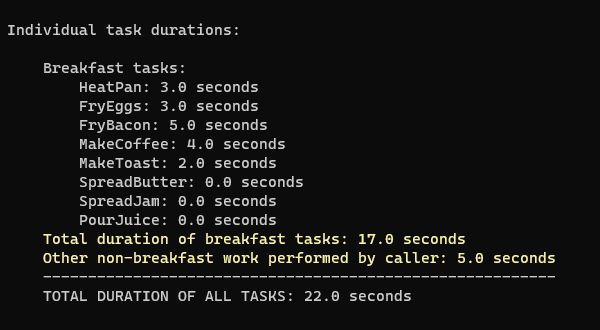
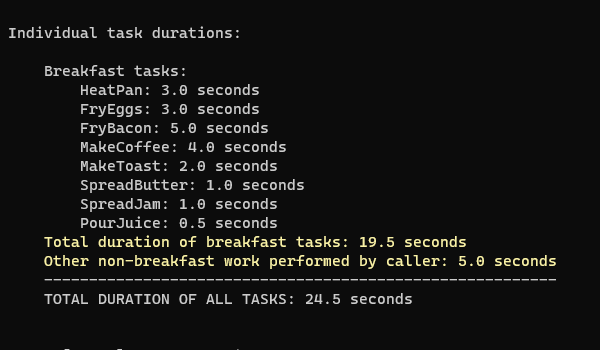
Give short-running tasks set durations

Changed region(s): [[0.06, 0.1818, 0.93, 0.9091], [0.0, 0.0606, 0.39, 0.1212]]

diff --git a/AsyncDEMO_Net8/2_AsyncVersions/AsyncBreakfastMakerBase.cs b/AsyncDEMO_Net8/2_AsyncVersions/AsyncBreakfastMakerBase.cs
@@ -100,6 +100,8 @@ namespace AsyncDEMO_Net8._2_AsyncVersions
 
             taskInfo.WriteInTaskColor($"Spreading butter on {toastSlices.Count} slices of toast...");
 
+            Task.Delay(taskInfo.Duration).Wait();
+
             taskInfo.WriteWithElapsedTime("Butter has been spread", startTime);
         }
 
@@ -109,6 +111,8 @@ namespace AsyncDEMO_Net8._2_AsyncVersions
 
             taskInfo.WriteInTaskColor($"Spreading jam on {toastSlices.Count} slices of toast...");
 
+            Task.Delay(taskInfo.Duration).Wait();
+
             taskInfo.WriteWithElapsedTime("Jam has been spread", startTime);
         }
 
@@ -117,6 +121,8 @@ namespace AsyncDEMO_Net8._2_AsyncVersions
             var taskInfo = TaskInfo.GetTask(TaskId.PourJuice);
 
             taskInfo.WriteInTaskColor("Pouring orange juice...");
+
+            Task.Delay(taskInfo.Duration).Wait();
 
             taskInfo.WriteWithElapsedTime("Juice is ready", startTime);
 

diff --git a/AsyncDEMO_Net8/1_SyncVersion/SyncBreakfastMaker.cs b/AsyncDEMO_Net8/1_SyncVersion/SyncBreakfastMaker.cs
@@ -126,6 +126,8 @@ namespace AsyncDEMO_Net8._1_SyncVersion
 
             taskInfo.WriteInTaskColor($"Spreading butter on {toastSlices.Count} slices of toast...");
 
+            Task.Delay(taskInfo.Duration).Wait();
+
             taskInfo.WriteWithElapsedTime("Butter has been spread", startTime);
         }
 
@@ -135,6 +137,8 @@ namespace AsyncDEMO_Net8._1_SyncVersion
 
             taskInfo.WriteInTaskColor($"Spreading jam on {toastSlices.Count} slices of toast...");
 
+            Task.Delay(taskInfo.Duration).Wait();
+
             taskInfo.WriteWithElapsedTime("Jam has been spread", startTime);
         }
 
@@ -143,6 +147,8 @@ namespace AsyncDEMO_Net8._1_SyncVersion
             var taskInfo = TaskInfo.GetTask(TaskId.PourJuice);
 
             taskInfo.WriteInTaskColor("Pouring orange juice...");
+
+            Task.Delay(taskInfo.Duration).Wait();
 
             taskInfo.WriteWithElapsedTime("Juice is ready", startTime);
 

diff --git a/AsyncDEMO_Net8/TaskInfo.cs b/AsyncDEMO_Net8/TaskInfo.cs
@@ -93,9 +93,9 @@ namespace AsyncDEMO_Net8
             tasks.Add(new TaskInfo(TaskId.FryBacon, ConsoleColor.Red, 5000));
             tasks.Add(new TaskInfo(TaskId.MakeCoffee, ConsoleColor.DarkYellow, 4000));
             tasks.Add(new TaskInfo(TaskId.MakeToast, ConsoleColor.Yellow, 2000));
-            tasks.Add(new TaskInfo(TaskId.SpreadButter, ConsoleColor.Cyan, 0));
-            tasks.Add(new TaskInfo(TaskId.SpreadJam, ConsoleColor.DarkCyan, 0));
-            tasks.Add(new TaskInfo(TaskId.PourJuice, ConsoleColor.Blue, 0));
+            tasks.Add(new TaskInfo(TaskId.SpreadButter, ConsoleColor.Cyan, 1000));
+            tasks.Add(new TaskInfo(TaskId.SpreadJam, ConsoleColor.DarkCyan, 1000));
+            tasks.Add(new TaskInfo(TaskId.PourJuice, ConsoleColor.Blue, 500));
             tasks.Add(new TaskInfo(TaskId.OtherWork, ConsoleColor.DarkGreen, 5000));
 
             return tasks;

diff --git a/AsyncDEMO_Net8/ConsoleHelper.cs b/AsyncDEMO_Net8/ConsoleHelper.cs
@@ -57,6 +57,7 @@ namespace AsyncDEMO_Net8
 
         public static void WriteTotalTimeTaken(DateTime startTime)
         {
+            Console.ForegroundColor = ConsoleColor.Gray;
             WriteTimeTaken("TOTAL TIME TAKEN", startTime);
         }
     }

diff --git a/AsyncDEMO_Net8/Program.cs b/AsyncDEMO_Net8/Program.cs
@@ -1,4 +1,5 @@
 // See https://aka.ms/new-console-template for more information
 using Gold.ConsoleMenu;
 
+Console.ForegroundColor = ConsoleColor.Gray;
 MenuGenerator.Run();

diff --git a/README.md b/README.md
@@ -45,21 +45,21 @@ The first asynchronous version of the code calls each breakfast task with an imm
 ![A screenshot from the demo application, showing the tasks executed by the asynchronous version of the code with immediate awaits](Images/Results_AsyncWithImmediateAwait.png "Results of asynchronous version with immediate awaits")
 
 ### Asynchronous Version with Deferred awaits
-The second asynchronous version of the code defers the `await`s for each asynchronous breakfast task.  As a result the asynchronous tasks execute consecutively, not sequentially, so this version is very fast.  However, it has two problems:
+The second asynchronous version of the code defers the `await`s for each asynchronous breakfast task.  As a result the asynchronous tasks execute concurrently, not sequentially, so this version is very fast.  However, it has two problems:
 
-1. The various tasks relating to frying execute consecutively.  So it attempts to fry the eggs before the pan has finished heating, and fry the bacon before the eggs have finished.
+1. The various tasks relating to frying execute in parallel.  So it attempts to fry the eggs before the pan has finished heating, and fry the bacon before the eggs have finished.
 
 1. The tasks for spreading the butter and jam on the toast have to wait for the bacon to finish frying, the coffee to finish brewing, and the toast to finish.  This may result in an unnecessary delay, as spreading the butter and jam should only depend on the toast being ready; it's okay for those tasks to execute while the bacon is still frying and the coffee is still brewing.
 
 ![A screenshot from the demo application, showing the tasks executed by the asynchronous version of the code with deferred awaits](Images/Results_AsyncWithDeferredAwait.png "Results of asynchronous version with deferred awaits")
 
 ### Asynchronous Version with Deferred awaits and Task Composition
-The third asynchronous version of the code adds task composition to fix the second problem: Allowing the spreading of the butter and jam to occur even if the bacon is still frying and the coffee is still brewing.  However, it still has the first problem where the various frying-related tasks execute consecutively:
+The third asynchronous version of the code adds task composition to fix the second problem: Allowing the spreading of the butter and jam to occur even if the bacon is still frying and the coffee is still brewing.  However, it still has the first problem where the various frying-related tasks execute in parallel:
 
 ![A screenshot from the demo application, showing the tasks executed by the asynchronous version of the code with deferred awaits and task composition](Images/Results_AsyncWithDeferredAwaitAndTaskComposition.png "Results of asynchronous version with deferred awaits and task composition")
 
 ### Final Asynchronous Version
-The fourth and final asynchronous version of the code uses a combination of immediate and deferred `await`s to fix the first problem, where the various frying-related tasks were executing consecutively.  As a result it runs slower than the purely deferred `await` version of the code, but it executes the tasks in the correct order:
+The fourth and final asynchronous version of the code uses a combination of immediate and deferred `await`s to fix the first problem, where the various frying-related tasks were executing in parallel.  As a result it runs slower than the purely deferred `await` version of the code, but it executes the tasks in the correct order.  Pouring the juice has to wait until all other breakfast tasks are complete before it runs:
 
 ![A screenshot from the demo application, showing the tasks executed by the final asynchronous version of the code](Images/Results_AsyncFinal.png "Results of the final asynchronous version")
 
